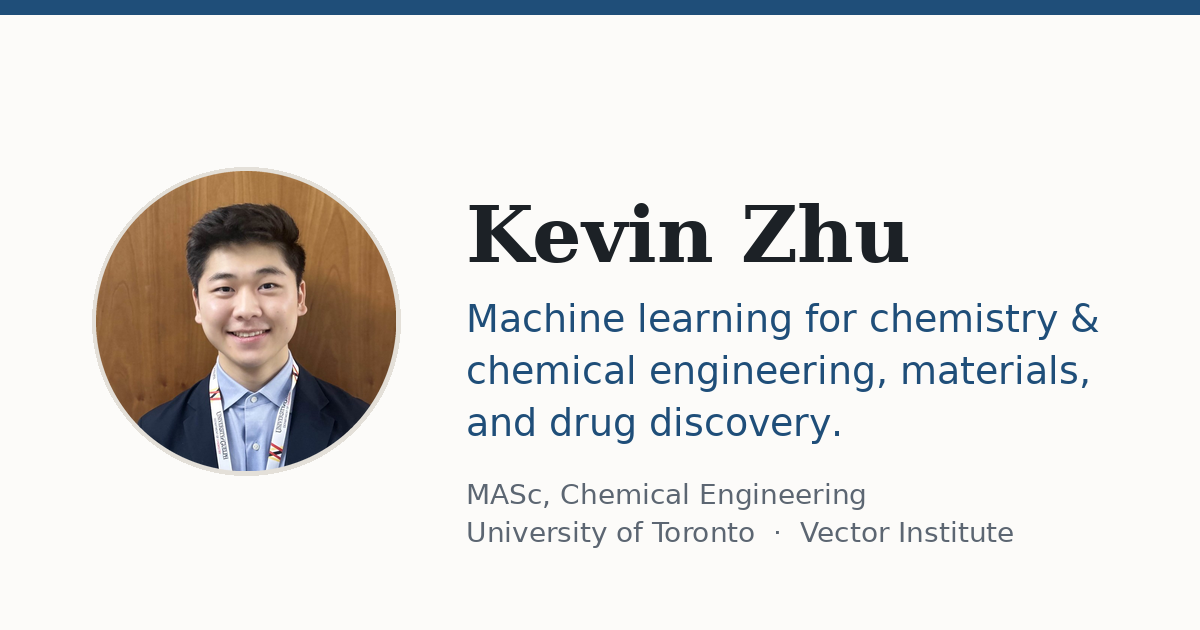
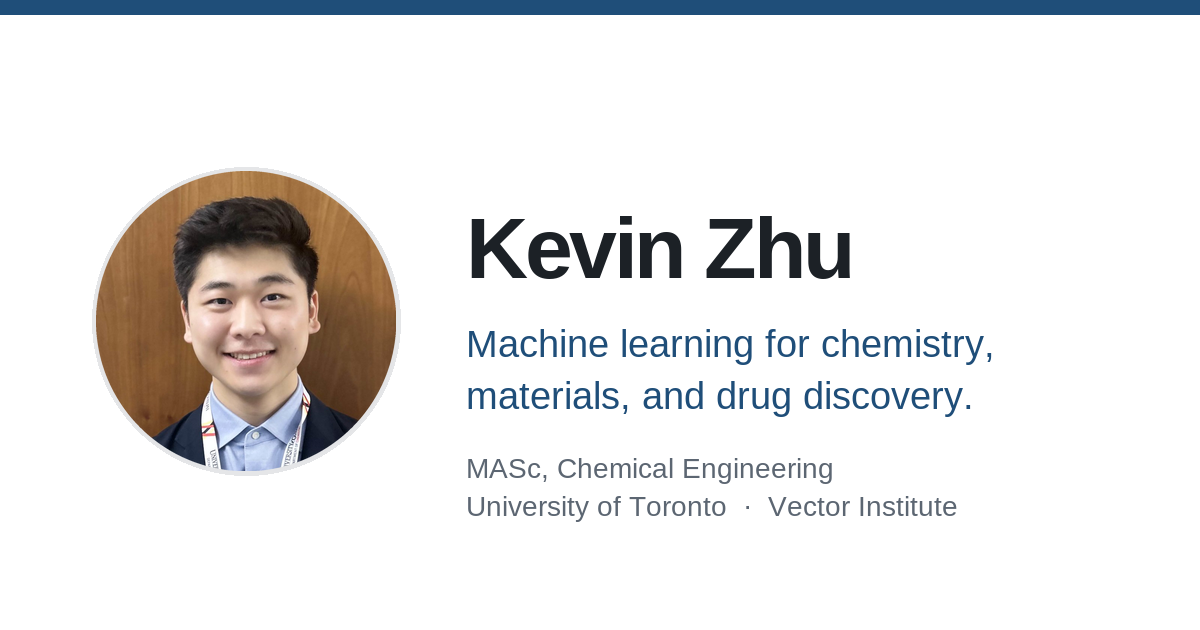
Restyle in the spirit of AMSF Curtana; drop the skills list
Typography and feel follow the Curtana theme this repo started from
(values taken from its _variables/_mixins/_common SCSS in git history):

- System sans throughout, with SF alternates (cv01-03).
- Larger, window-aware body text (Curtana uses 1.6vw; clamped here so it
  stays readable on phones).
- Bold headings with -.04em tracking; bold card titles.
- Sub-headings small, regular weight, half opacity.
- Bold in-text links; bold sentence-case nav.
- White background.

Navy accent, layout, cards, filters, and JS are unchanged.

Remove the Technical skills list from About: the research cards, tags,
and projects already show the methods. The OG card is re-rendered with
a bold sans name to match.

diff --git a/assets/css/style.css b/assets/css/style.css
@@ -8,17 +8,16 @@
    -------------------------------------------------------------------------- */
 
 :root {
-  --serif: "Iowan Old Style", "Palatino Linotype", Palatino, "Book Antiqua", Georgia, ui-serif, serif;
   --sans: -apple-system, BlinkMacSystemFont, "Segoe UI", Roboto, "Helvetica Neue", Arial, sans-serif;
   --mono: ui-monospace, SFMono-Regular, "SF Mono", Menlo, Consolas, monospace;
 
-  --bg: #fcfbf9;
+  --bg: #ffffff;
   --bg-elev: #ffffff;
-  --bg-sunk: #f5f3ef;
+  --bg-sunk: #f5f5f6;
   --text: #1c2126;
   --muted: #5c6672;
   --faint: #8a939e;
-  --rule: #e4e0d9;
+  --rule: #e5e6e8;
   --accent: #1f4e79;
   --accent-text: #1f4e79;
   --accent-soft: rgba(31, 78, 121, .08);
@@ -29,11 +28,16 @@
   --gutter: clamp(1.25rem, 5vw, 3rem);
   --header-h: 4rem;
 
-  --step--1: clamp(.8rem, .78rem + .1vw, .86rem);
-  --step-0: clamp(1rem, .97rem + .15vw, 1.075rem);
-  --step-1: clamp(1.15rem, 1.1rem + .25vw, 1.3rem);
-  --step-2: clamp(1.4rem, 1.3rem + .5vw, 1.75rem);
-  --step-3: clamp(2rem, 1.6rem + 2vw, 3.25rem);
+  /* Curtana-style scale: large, window-aware body text (Curtana uses 1.6vw),
+     clamped so it stays readable on phones and doesn't balloon on wide screens */
+  --step--1: clamp(.82rem, .76rem + .2vw, .95rem);
+  --step-0: clamp(1rem, .8rem + .55vw, 1.25rem);
+  --step-1: clamp(1.15rem, .95rem + .6vw, 1.45rem);
+  --step-2: clamp(1.6rem, 1.1rem + 1.4vw, 2.4rem);
+  --step-3: clamp(2.5rem, 1.4rem + 3.6vw, 4.5rem);
+
+  /* Curtana's heading tracking */
+  --tight: -.04em;
 
   --ease: cubic-bezier(.22, .61, .36, 1);
 }
@@ -77,15 +81,16 @@ body {
   font-family: var(--sans);
   font-size: var(--step-0);
   line-height: 1.65;
+  font-feature-settings: "cv01", "cv02", "cv03";   /* SF alternates, as in Curtana */
   -webkit-font-smoothing: antialiased;
   text-rendering: optimizeLegibility;
 }
 
 h1, h2, h3, h4 {
-  font-family: var(--serif);
-  font-weight: 600;
-  line-height: 1.2;
-  letter-spacing: -.01em;
+  font-family: var(--sans);
+  font-weight: 700;
+  line-height: 1.15;
+  letter-spacing: var(--tight);
   margin: 0;
 }
 
@@ -100,6 +105,8 @@ a {
 }
 
 a:hover { text-decoration-color: currentColor; }
+
+.prose a, .entry__body a, .pubs__doi a, .callout a { font-weight: 700; }
 
 :focus-visible {
   outline: 2px solid var(--accent);
@@ -166,9 +173,10 @@ ul { margin: 0; padding: 0; list-style: none; }
 }
 
 .brand {
-  font-family: var(--serif);
+  font-family: var(--sans);
   font-size: var(--step-1);
-  font-weight: 600;
+  font-weight: 700;
+  letter-spacing: -.03em;
   color: var(--text);
   text-decoration: none;
   white-space: nowrap;
@@ -197,10 +205,9 @@ ul { margin: 0; padding: 0; list-style: none; }
   display: block;
   padding: .5rem .7rem;
   border-radius: 6px;
-  font-size: var(--step--1);
-  letter-spacing: .04em;
-  text-transform: uppercase;
-  font-weight: 500;
+  font-size: calc(var(--step-0) * .9);
+  letter-spacing: -.01em;
+  font-weight: 700;
   color: var(--muted);
   text-decoration: none;
   white-space: nowrap;
@@ -260,8 +267,8 @@ ul { margin: 0; padding: 0; list-style: none; }
 .section__count {
   font-family: var(--mono);
   font-size: var(--step--1);
-  color: var(--faint);
-  letter-spacing: .05em;
+  color: var(--text);
+  opacity: .5;
 }
 
 .section__intro {
@@ -303,7 +310,8 @@ ul { margin: 0; padding: 0; list-style: none; }
 .portrait--fallback {
   display: grid;
   place-items: center;
-  font-family: var(--serif);
+  font-family: var(--sans);
+  font-weight: 700;
   font-size: clamp(2rem, 5vw, 3rem);
   color: #fff;
   background: var(--accent);
@@ -312,15 +320,15 @@ ul { margin: 0; padding: 0; list-style: none; }
 
 .hero__name {
   font-size: var(--step-3);
-  letter-spacing: -.02em;
-  margin-bottom: .35rem;
+  line-height: 1.05;
+  margin-bottom: .5rem;
 }
 
 .hero__tagline {
-  font-family: var(--serif);
+  font-family: var(--sans);
   font-size: var(--step-1);
   font-weight: 400;
-  font-style: italic;
+  letter-spacing: -.01em;
   color: var(--muted);
   max-width: 34ch;
   margin-bottom: 1.1rem;
@@ -403,9 +411,10 @@ ul { margin: 0; padding: 0; list-style: none; }
 .prose + .prose { margin-top: 1.1em; }
 
 .lede {
-  font-family: var(--serif);
+  font-family: var(--sans);
   font-size: var(--step-1);
   line-height: 1.5;
+  letter-spacing: -.01em;
 }
 
 .about__grid {
@@ -415,13 +424,14 @@ ul { margin: 0; padding: 0; list-style: none; }
   align-items: start;
 }
 
+/* Curtana sub-heading: small, regular weight, half opacity */
 .subhead {
   font-family: var(--sans);
-  font-size: var(--step--1);
-  font-weight: 600;
-  text-transform: uppercase;
-  letter-spacing: .09em;
-  color: var(--faint);
+  font-size: .8em;
+  font-weight: 400;
+  letter-spacing: 0;
+  color: var(--text);
+  opacity: .5;
   margin: 0 0 1rem;
 }
 
@@ -443,24 +453,6 @@ ul { margin: 0; padding: 0; list-style: none; }
   color: var(--faint);
   margin-top: .3rem;
 }
-
-/* Skills */
-.skills dt {
-  font-size: var(--step--1);
-  font-weight: 600;
-  text-transform: uppercase;
-  letter-spacing: .06em;
-  color: var(--muted);
-  margin-top: 1rem;
-}
-
-.skills dd {
-  margin: .2rem 0 0;
-  font-size: var(--step--1);
-  color: var(--text);
-}
-
-.skills dt:first-child { margin-top: 0; }
 
 /* Photo sitting with the paragraph it illustrates, at prose width */
 .inline-figure {
@@ -566,9 +558,10 @@ ul { margin: 0; padding: 0; list-style: none; }
 .entry__summary::-webkit-details-marker { display: none; }
 
 .entry__role {
-  font-family: var(--serif);
+  font-family: var(--sans);
   font-size: var(--step-1);
-  font-weight: 600;
+  font-weight: 700;
+  letter-spacing: -.02em;
   grid-column: 1;
 }
 
@@ -749,9 +742,10 @@ ul { margin: 0; padding: 0; list-style: none; }
 }
 
 .pubs__title {
-  font-family: var(--serif);
+  font-family: var(--sans);
   font-size: var(--step-1);
-  font-weight: 600;
+  font-weight: 700;
+  letter-spacing: -.02em;
   margin-bottom: .3rem;
 }
 
@@ -844,9 +838,10 @@ ul { margin: 0; padding: 0; list-style: none; }
 }
 
 .awards__title {
-  font-family: var(--serif);
+  font-family: var(--sans);
   font-size: var(--step-1);
-  font-weight: 600;
+  font-weight: 700;
+  letter-spacing: -.02em;
 }
 
 .awards__amount {

diff --git a/index.html b/index.html
@@ -143,34 +143,6 @@
               </li>
             </ul>
           </div>
-
-          <div>
-            <h3 class="subhead">Technical skills</h3>
-            <dl class="skills">
-              <dt>ML &amp; DL</dt>
-              <dd>PyTorch, PyTorch Geometric, GPyTorch, Hugging Face Transformers, scikit-learn,
-              XGBoost, Optuna</dd>
-              <dt>Methods</dt>
-              <dd>Graph neural networks; Gaussian processes &amp; deep kernel learning; VAEs &amp;
-              diffusion models; protein language models; Bayesian optimization; uncertainty
-              quantification; time-series forecasting; interpretability (integrated gradients,
-              SHAP)</dd>
-              <dt>Optimization</dt>
-              <dd>BoTorch/Ax, TuRBO, CMA-ES, differential evolution, BOBYQA; COCO/BBOB
-              benchmarking</dd>
-              <dt>LLM agents</dt>
-              <dd>Claude Code &amp; Codex CLI agents, MCP tool servers, sandboxed agent
-              evaluation</dd>
-              <dt>Data &amp; software</dt>
-              <dd>Python, NumPy, SciPy, pandas, SQL, MongoDB, MQTT, Git, Bash, Linux, pytest</dd>
-              <dt>HPC &amp; cloud</dt>
-              <dd>SLURM (multi-cluster), AWS</dd>
-              <dt>Domain</dt>
-              <dd>Cheminformatics (RDKit), structure-based drug design, polymer informatics</dd>
-              <dt>Wet lab</dt>
-              <dd>2 years: NMR, MS, TLC, column chromatography, Schlenk technique</dd>
-            </dl>
-          </div>
         </div>
       </div>
     </div>
